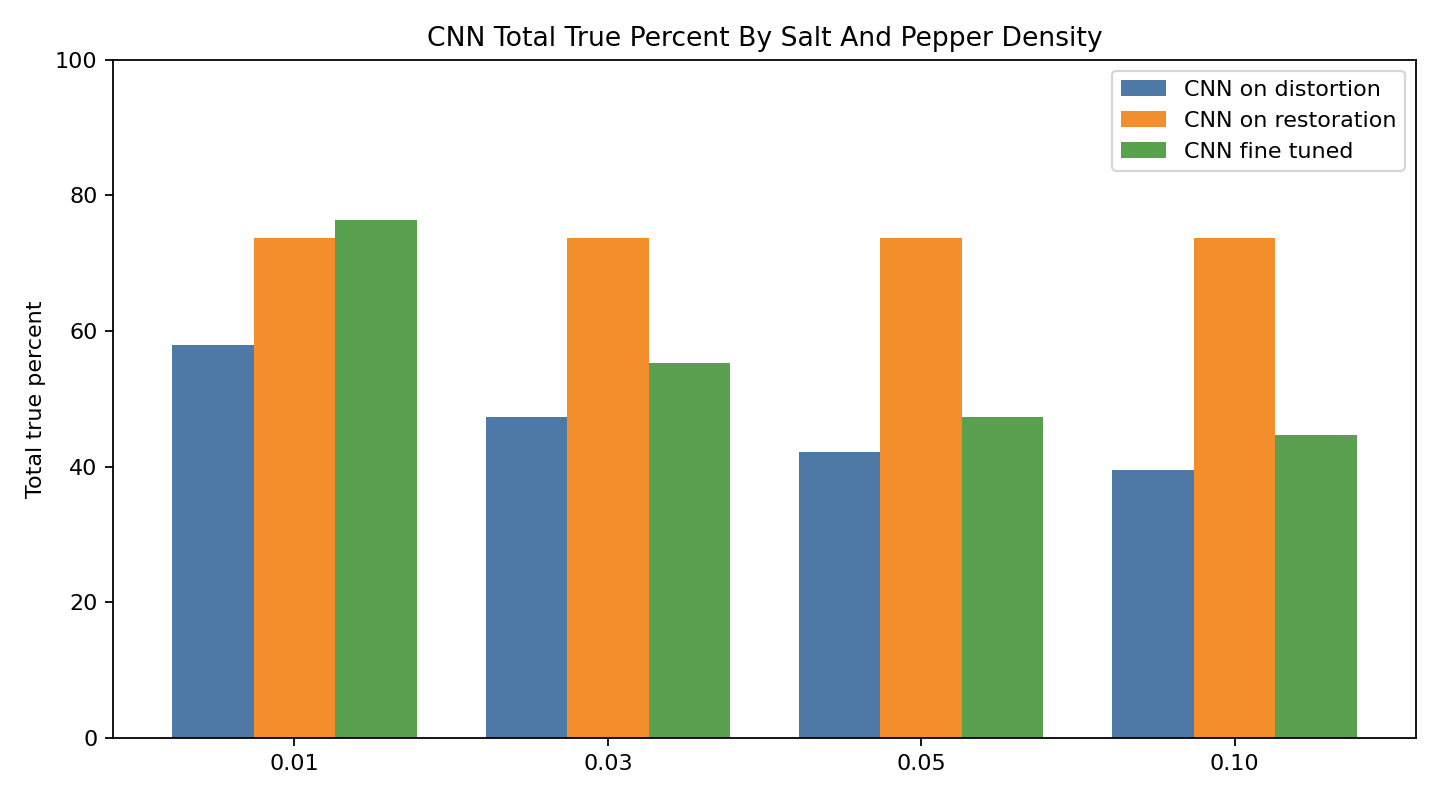
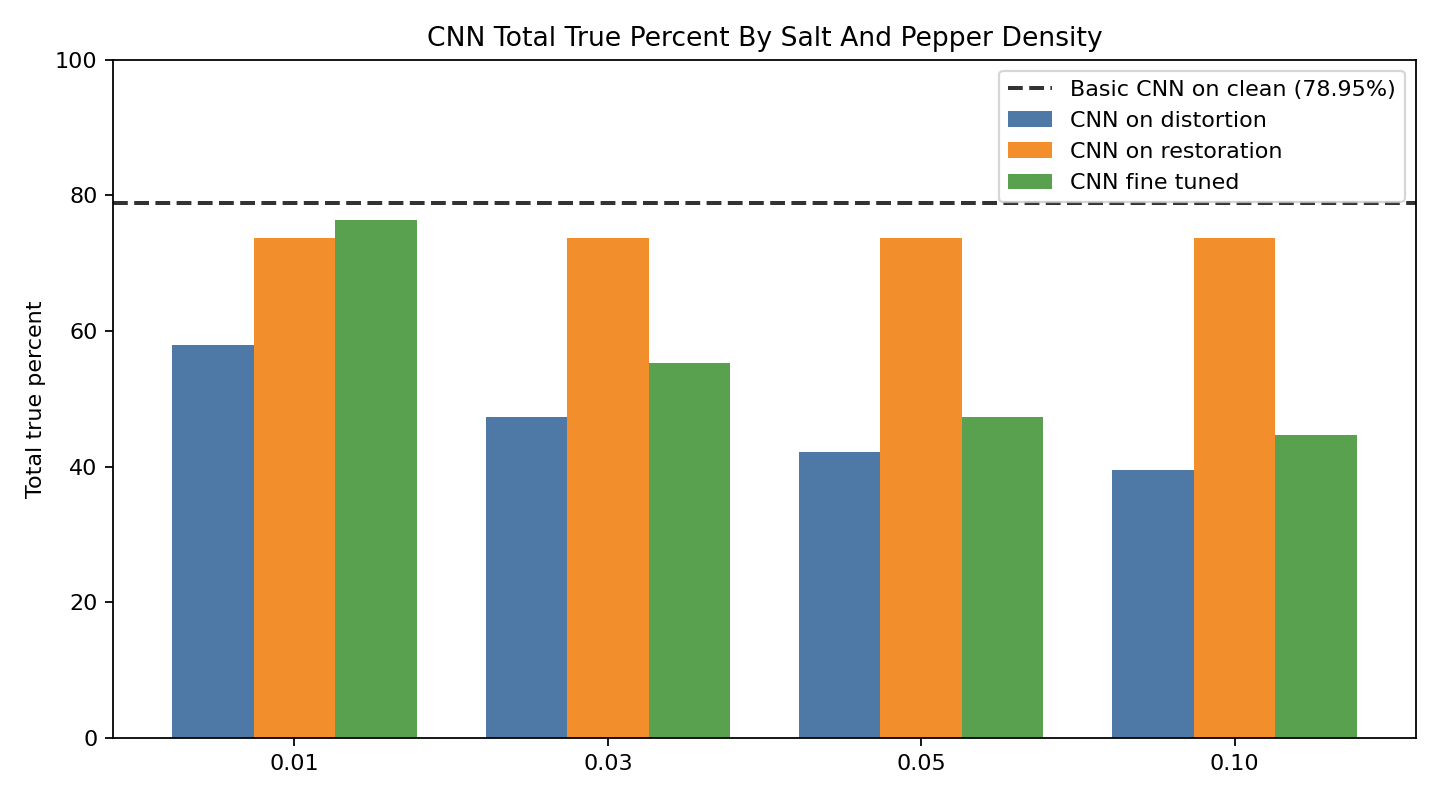
Add clean CNN baseline to comparison graphs

Changed region(s): [[0.0938, 0.0938, 0.9688, 0.2812]]

diff --git a/task/task 1 cnn/plot_cnn_snr_comparison.py b/task/task 1 cnn/plot_cnn_snr_comparison.py
@@ -13,6 +13,7 @@ RESULTS_TASK_1 = Path("result/results task 1")
 DISTORTION_RESTORATION_CSV = (
     RESULTS_TASK_1 / "cnn_on_distortion_restoration" / "confusion_percentages.csv"
 )
+BASIC_METRICS_PATH = RESULTS_TASK_1 / "cnn_on_basic" / "metrics.txt"
 FINE_TUNE_CSV = RESULTS_TASK_1 / "cnn_fine_tune_distortion" / "summary.csv"
 OUTPUT_PATH = (
     RESULTS_TASK_1
@@ -76,11 +77,20 @@ def read_fine_tune() -> dict[str, float]:
     return fine_tuned
 
 
+def read_basic_clean_percent() -> float:
+    with BASIC_METRICS_PATH.open(encoding="utf-8-sig") as file:
+        for line in file:
+            if line.startswith("Test accuracy:"):
+                return float(line.split(":", 1)[1].strip().removesuffix("%"))
+    raise ValueError(f"Could not find test accuracy in {BASIC_METRICS_PATH}")
+
+
 def save_comparison_graph(
     methods: list[tuple[str, str]],
     distorted: dict[str, float],
     restored: dict[str, float],
     fine_tuned: dict[str, float],
+    basic_clean_percent: float,
     title: str,
     output_path: Path,
 ) -> None:
@@ -119,6 +129,13 @@ def save_comparison_graph(
         label="CNN fine tuned",
         color="#59A14F",
     )
+    plt.axhline(
+        basic_clean_percent,
+        color="#333333",
+        linestyle="--",
+        linewidth=1.8,
+        label=f"Basic CNN on clean ({basic_clean_percent:.2f}%)",
+    )
 
     plt.xticks(x_positions, labels)
     plt.ylabel("Total true percent")
@@ -139,12 +156,14 @@ def main() -> None:
 
     distorted, restored = read_distortion_restoration()
     fine_tuned = read_fine_tune()
+    basic_clean_percent = read_basic_clean_percent()
 
     save_comparison_graph(
         SNR_METHODS,
         distorted,
         restored,
         fine_tuned,
+        basic_clean_percent,
         "CNN Total True Percent By Gaussian Noise SNR",
         OUTPUT_PATH,
     )
@@ -153,6 +172,7 @@ def main() -> None:
         distorted,
         restored,
         fine_tuned,
+        basic_clean_percent,
         "CNN Total True Percent By Salt And Pepper Density",
         SALT_PEPPER_OUTPUT_PATH,
     )
@@ -161,6 +181,7 @@ def main() -> None:
         distorted,
         restored,
         fine_tuned,
+        basic_clean_percent,
         "CNN Total True Percent By Gaussian Blur Sigma",
         BLUR_OUTPUT_PATH,
     )
